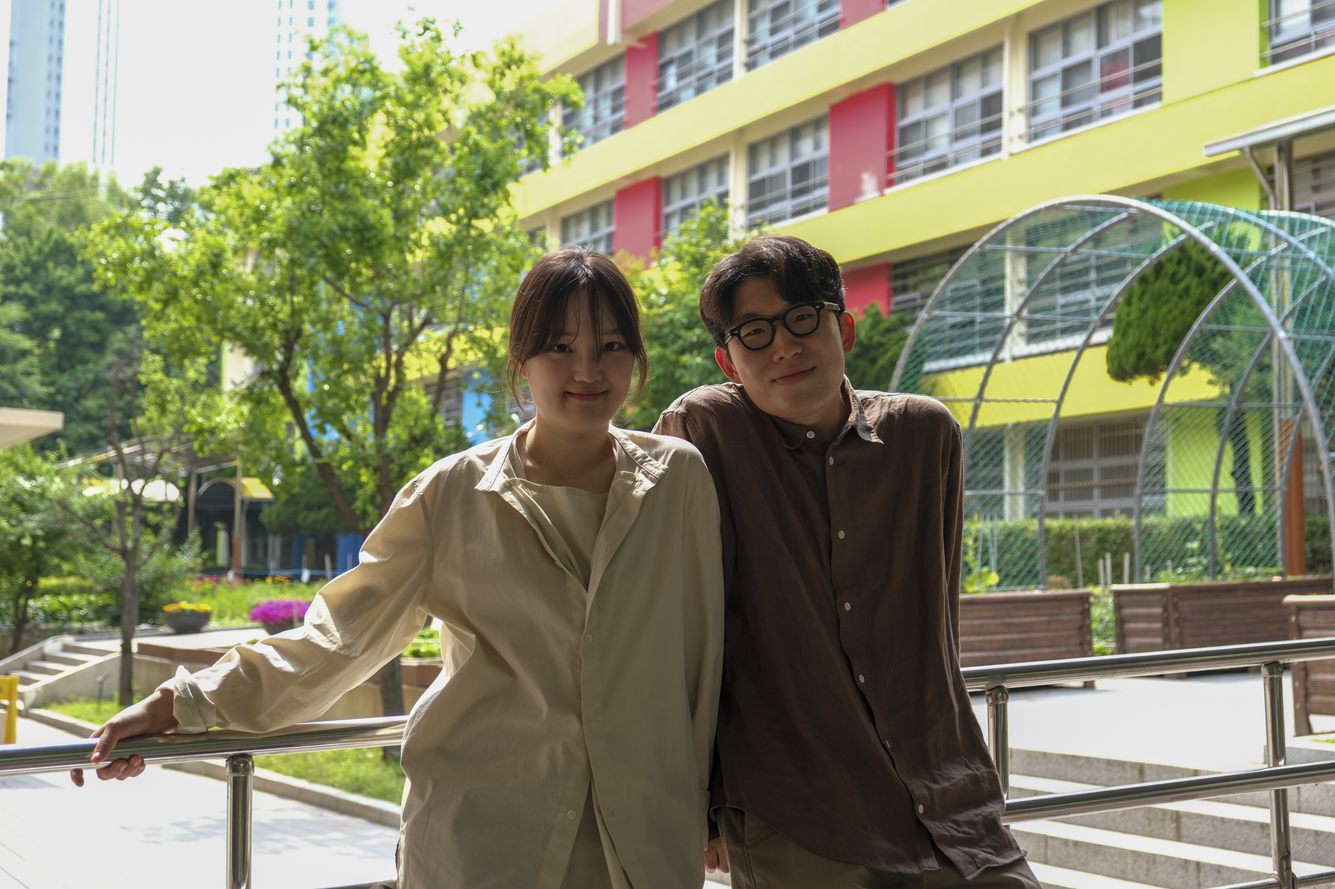
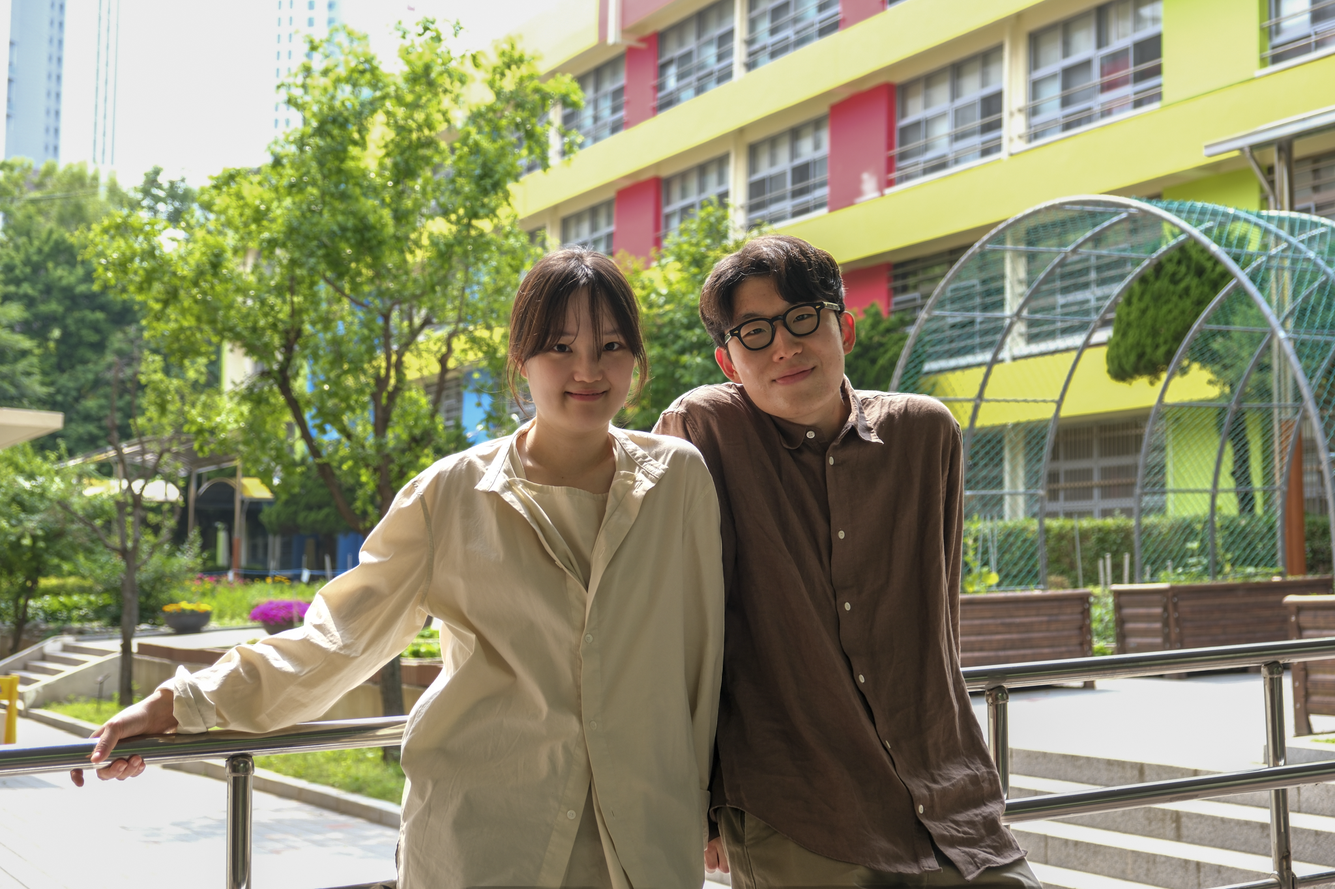
change photo size in mobile

Changed region(s): [[0.0625, 0.2462, 0.7812, 1.0], [0.625, 0.8, 0.6562, 0.8308]]

diff --git a/src/styles/global.css b/src/styles/global.css
@@ -335,16 +335,32 @@ body {
   display: flex;
   align-items: center;
   justify-content: center;
-  height: 60vh; /* 반응형 높이 */
-  min-height: 400px; /* 최소 높이 보장 */
-  max-height: 600px; /* 최대 높이 제한 */
+  padding: 20px; /* 모든 슬라이드에 동일한 패딩 */
+  background: linear-gradient(135deg, #f8f9fa 0%, #e9ecef 100%); /* 부드러운 그라데이션 배경 */
+}
+
+/* 가로형 사진 */
+.gallery-slide.landscape {
+  height: 50vh;
+  min-height: 350px;
+  max-height: 500px;
+}
+
+/* 세로형 사진 */
+.gallery-slide.portrait {
+  height: 65vh;
+  min-height: 450px;
+  max-height: 650px;
 }
 
 .gallery-slide img {
-  width: 100%;
-  height: 100%;
-  object-fit: cover; /* 여백 없이 컨테이너를 꽉 채움 */
-  object-position: center; /* 이미지의 중앙 부분을 표시 */
+  max-width: 100%;
+  max-height: 100%;
+  width: auto;
+  height: auto;
+  object-fit: contain; /* 사진이 잘리지 않게 전체 표시 */
+  border-radius: 8px; /* 이미지에 둥근 모서리 */
+  box-shadow: 0 4px 20px rgba(0, 0, 0, 0.1); /* 부드러운 그림자 */
   /* 이미지 렌더링 최적화 */
   will-change: transform;
   transform: translateZ(0);

diff --git a/src/components/Gallery.ts b/src/components/Gallery.ts
@@ -2,8 +2,11 @@ import { galleryImages } from '../data/wedding-info'
 
 export function Gallery(): string {
   const imageSlides = galleryImages.map((image, index) => {
+    const aspectRatio = image.width / image.height
+    const isLandscape = aspectRatio > 1
+    
     return `
-    <div class="gallery-slide" 
+    <div class="gallery-slide ${isLandscape ? 'landscape' : 'portrait'}" 
          data-index="${index}">
       <img src="${image.src}" alt="${image.alt}" 
            decoding="async"
